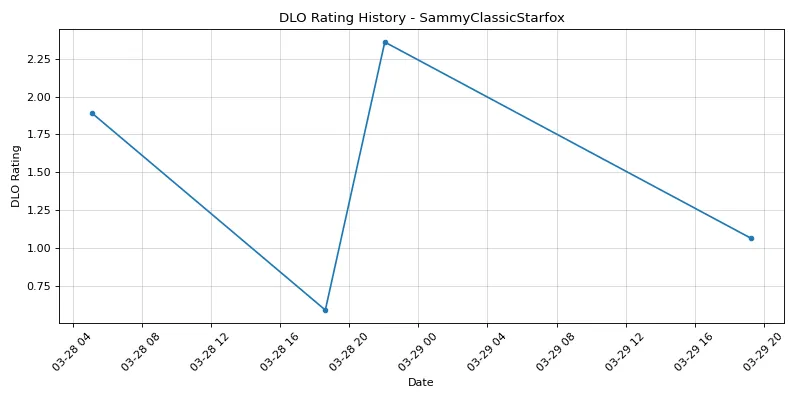
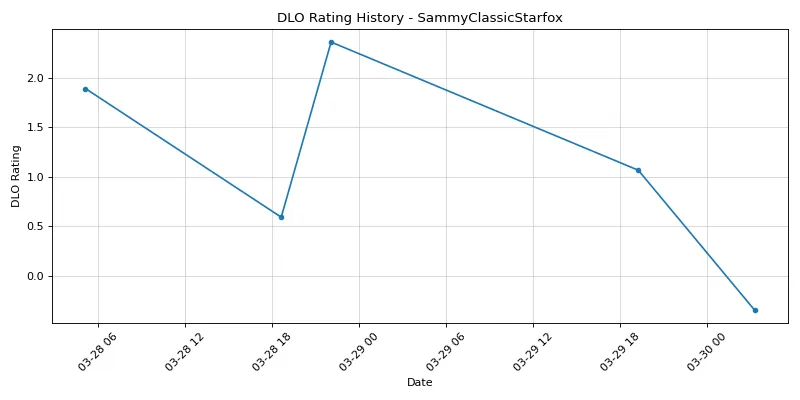
Auto-update: 2025-03-30 03:15:29

diff --git a/docs/index.html b/docs/index.html
@@ -53,7 +53,7 @@
             </tr>
         </thead>
         <tbody>
-            <tr><td>1</td><td><a href="player/76561198113365362.html">Rom</a></td><td>7.61</td><td>16</td></tr><tr><td>2</td><td><a href="player/76561198439522328.html">Scrubus</a></td><td>6.97</td><td>13</td></tr><tr><td>3</td><td><a href="player/76561199813547421.html">Stern</a></td><td>5.39</td><td>5</td></tr><tr><td>4</td><td><a href="player/76561199096225302.html">chereamie</a></td><td>5.31</td><td>5</td></tr><tr><td>5</td><td><a href="player/76561197991901288.html">Welsper</a></td><td>4.89</td><td>3</td></tr><tr><td>6</td><td><a href="player/76561198067145805.html">internetzspacezshipz</a></td><td>4.89</td><td>5</td></tr><tr><td>7</td><td><a href="player/76561199619179700.html">Austral</a></td><td>3.92</td><td>9</td></tr><tr><td>8</td><td><a href="player/76561198054330246.html">WzSnipes</a></td><td>3.82</td><td>8</td></tr><tr><td>9</td><td><a href="player/76561198324280078.html">flynn</a></td><td>3.56</td><td>10</td></tr><tr><td>10</td><td><a href="player/76561199109004727.html">Jacoda</a></td><td>3.56</td><td>2</td></tr><tr><td>11</td><td><a href="player/76561198188722486.html">Weeble Keneeble</a></td><td>3.41</td><td>2</td></tr><tr><td>12</td><td><a href="player/76561199074068434.html">Zabbix</a></td><td>3.16</td><td>2</td></tr><tr><td>13</td><td><a href="player/76561198153456000.html">Comedian</a></td><td>2.43</td><td>1</td></tr><tr><td>14</td><td><a href="player/76561199701048648.html">Fentanyl Ape</a></td><td>2.43</td><td>1</td></tr><tr><td>15</td><td><a href="player/76561198107440575.html">Gvazi</a></td><td>2.30</td><td>3</td></tr><tr><td>16</td><td><a href="player/76561198390895563.html">Black Bat A8T</a></td><td>2.22</td><td>6</td></tr><tr><td>17</td><td><a href="player/76561198895534238.html">Noek &#x27;Vessel&#x27; H.</a></td><td>2.06</td><td>3</td></tr><tr><td>18</td><td><a href="player/76561198405914826.html">Magic</a></td><td>2.04</td><td>3</td></tr><tr><td>19</td><td><a href="player/76561198988211104.html">dxb338</a></td><td>1.92</td><td>3</td></tr><tr><td>20</td><td><a href="player/76561198871018138.html">MXYFX-71400</a></td><td>1.89</td><td>1</td></tr><tr><td>21</td><td><a href="player/76561198018651039.html">Aurelia Lightpaw</a></td><td>1.85</td><td>1</td></tr><tr><td>22</td><td><a href="player/76561198012111956.html">KailasaHoles</a></td><td>1.85</td><td>1</td></tr><tr><td>23</td><td><a href="player/76561198062094692.html">Radosvik</a></td><td>1.85</td><td>1</td></tr><tr><td>24</td><td><a href="player/76561198092534377.html">Mav625</a></td><td>1.83</td><td>1</td></tr><tr><td>25</td><td><a href="player/76561198399462425.html">iriS-xe</a></td><td>1.82</td><td>9</td></tr><tr><td>26</td><td><a href="player/76561199209524660.html">bigterrorist</a></td><td>1.76</td><td>1</td></tr><tr><td>27</td><td><a href="player/76561198353755299.html">Daemoniaque</a></td><td>1.73</td><td>1</td></tr><tr><td>28</td><td><a href="player/76561198843598485.html">Cassie Chase</a></td><td>1.69</td><td>1</td></tr><tr><td>29</td><td><a href="player/76561199839182647.html">Soedem</a></td><td>1.69</td><td>1</td></tr><tr><td>30</td><td><a href="player/76561199439219048.html">workas</a></td><td>1.69</td><td>1</td></tr><tr><td>31</td><td><a href="player/76561199841083469.html">bennycarver</a></td><td>1.68</td><td>1</td></tr><tr><td>32</td><td><a href="player/76561198151744331.html">CosmicEradicator</a></td><td>1.68</td><td>1</td></tr><tr><td>33</td><td><a href="player/76561197965398272.html">JonBolds</a></td><td>1.68</td><td>1</td></tr><tr><td>34</td><td><a href="player/76561199479844941.html">Daggon</a></td><td>1.66</td><td>1</td></tr><tr><td>35</td><td><a href="player/76561198149681631.html">Quintobean</a></td><td>1.65</td><td>7</td></tr><tr><td>36</td><td><a href="player/76561198081378329.html">HELL CRINGE</a></td><td>1.64</td><td>6</td></tr><tr><td>37</td><td><a href="player/76561198203688599.html">HEAVEN BASED</a></td><td>1.63</td><td>1</td></tr><tr><td>38</td><td><a href="player/76561198118076747.html">Xenophon of Athens</a></td><td>1.63</td><td>1</td></tr><tr><td>39</td><td><a href="player/76561198072364306.html">BATTIE</a></td><td>1.62</td><td>1</td></tr><tr><td>40</td><td><a href="player/76561198799044855.html">Trojan_Shad0w</a></td><td>1.59</td><td>1</td></tr><tr><td>41</td><td><a href="player/76561199435784871.html">dashort1</a></td><td>1.58</td><td>1</td></tr><tr><td>42</td><td><a href="player/76561198061365582.html">LyricalKing</a></td><td>1.44</td><td>1</td></tr><tr><td>43</td><td><a href="player/76561198102689306.html">nova28</a></td><td>1.44</td><td>1</td></tr><tr><td>44</td><td><a href="player/76561198159764203.html">Cpt_Joe</a></td><td>1.42</td><td>1</td></tr><tr><td>45</td><td><a href="player/76561199238744504.html">Duke of Stars</a></td><td>1.39</td><td>6</td></tr><tr><td>46</td><td><a href="player/76561198947126591.html">SammyClassicStarfox</a></td><td>1.06</td><td>4</td></tr><tr><td>47</td><td><a href="player/76561198837013055.html">Jaspexx</a></td><td>0.96</td><td>4</td></tr><tr><td>48</td><td><a href="player/76561198250857768.html">Jakubian</a></td><td>0.95</td><td>1</td></tr><tr><td>49</td><td><a href="player/76561198430121736.html">teitokuwww</a></td><td>0.95</td><td>1</td></tr><tr><td>50</td><td><a href="player/76561198007984095.html">das</a></td><td>0.76</td><td>2</td></tr><tr><td>51</td><td><a href="player/76561198046325828.html">Kiroking</a></td><td>0.59</td><td>2</td></tr><tr><td>52</td><td><a href="player/76561199097135470.html">ocult</a></td><td>0.55</td><td>2</td></tr><tr><td>53</td><td><a href="player/76561198801434526.html">Jraamus</a></td><td>0.53</td><td>2</td></tr><tr><td>54</td><td><a href="player/76561198105386598.html">FreedomGR</a></td><td>0.51</td><td>2</td></tr><tr><td>55</td><td><a href="player/76561198100430451.html">Nick0</a></td><td>0.44</td><td>2</td></tr><tr><td>56</td><td><a href="player/76561197998511101.html">Hivegender</a></td><td>0.19</td><td>2</td></tr><tr><td>57</td><td><a href="player/76561198206866291.html">bonggyy</a></td><td>-0.20</td><td>7</td></tr><tr><td>58</td><td><a href="player/76561198052398418.html">_Puck_</a></td><td>-0.28</td><td>2</td></tr><tr><td>59</td><td><a href="player/76561198354645177.html">Solus</a></td><td>-0.31</td><td>3</td></tr><tr><td>60</td><td><a href="player/76561198089616341.html">hämis</a></td><td>-0.53</td><td>1</td></tr><tr><td>61</td><td><a href="player/76561198126182179.html">xxTHREExx</a></td><td>-0.53</td><td>1</td></tr><tr><td>62</td><td><a href="player/76561197997867197.html">Mann gegen Mann</a></td><td>-0.56</td><td>3</td></tr><tr><td>63</td><td><a href="player/76561198332158283.html">Lambooo</a></td><td>-0.92</td><td>1</td></tr><tr><td>64</td><td><a href="player/76561198140913834.html">SirPoopit</a></td><td>-0.94</td><td>1</td></tr><tr><td>65</td><td><a href="player/76561198010486795.html">QuizQuiz</a></td><td>-0.98</td><td>8</td></tr><tr><td>66</td><td><a href="player/76561197996747977.html">Captain Eban</a></td><td>-1.05</td><td>1</td></tr><tr><td>67</td><td><a href="player/76561198009272323.html">Explosive Megumin</a></td><td>-1.05</td><td>1</td></tr><tr><td>68</td><td><a href="player/76561198066312157.html">PieOfReckoning</a></td><td>-1.06</td><td>1</td></tr><tr><td>69</td><td><a href="player/76561198049445057.html">Skipper</a></td><td>-1.07</td><td>1</td></tr><tr><td>70</td><td><a href="player/76561198209008457.html">StabilWieNichts</a></td><td>-1.07</td><td>1</td></tr><tr><td>71</td><td><a href="player/76561198006884445.html">TheCheeseBandit</a></td><td>-1.07</td><td>1</td></tr><tr><td>72</td><td><a href="player/76561198950963392.html">_bell</a></td><td>-1.13</td><td>14</td></tr><tr><td>73</td><td><a href="player/76561198019779444.html">Gambit</a></td><td>-1.18</td><td>1</td></tr><tr><td>74</td><td><a href="player/76561198208086923.html">apathy</a></td><td>-1.19</td><td>1</td></tr><tr><td>75</td><td><a href="player/76561197993020664.html">MrChops</a></td><td>-1.20</td><td>1</td></tr><tr><td>76</td><td><a href="player/76561197986126034.html">bowana</a></td><td>-1.21</td><td>1</td></tr><tr><td>77</td><td><a href="player/76561197984709358.html">CosmicEradicator</a></td><td>-1.21</td><td>1</td></tr><tr><td>78</td><td><a href="player/76561198074285909.html">Cosmos</a></td><td>-1.21</td><td>1</td></tr><tr><td>79</td><td><a href="player/76561197960539146.html">Dimori</a></td><td>-1.21</td><td>1</td></tr><tr><td>80</td><td><a href="player/76561198361715088.html">Cosmic Coom</a></td><td>-1.25</td><td>1</td></tr><tr><td>81</td><td><a href="player/76561198193749733.html">noobmaster69</a></td><td>-1.34</td><td>1</td></tr><tr><td>82</td><td><a href="player/76561198063315803.html">Occams Hammer</a></td><td>-1.34</td><td>1</td></tr><tr><td>83</td><td><a href="player/76561198152855754.html">Orgiastic Erection</a></td><td>-1.34</td><td>1</td></tr><tr><td>84</td><td><a href="player/76561198981973612.html">Iona Cerana</a></td><td>-1.39</td><td>1</td></tr><tr><td>85</td><td><a href="player/76561199122719914.html">Lost_Leviathan</a></td><td>-1.41</td><td>1</td></tr><tr><td>86</td><td><a href="player/76561198203580469.html">TheEngineeringTactician</a></td><td>-1.41</td><td>1</td></tr><tr><td>87</td><td><a href="player/76561197984015263.html">Kung Leonard den Barbariske</a></td><td>-1.50</td><td>1</td></tr><tr><td>88</td><td><a href="player/76561198041325974.html">Pinselmann</a></td><td>-1.50</td><td>1</td></tr><tr><td>89</td><td><a href="player/76561198130378644.html">puppy</a></td><td>-2.12</td><td>4</td></tr><tr><td>90</td><td><a href="player/76561198064533187.html">Adleid</a></td><td>-2.19</td><td>4</td></tr><tr><td>91</td><td><a href="player/76561198822264018.html">PBstar27</a></td><td>-2.50</td><td>2</td></tr><tr><td>92</td><td><a href="player/76561198097117564.html">Doggy Girl KikimoraθΔ</a></td><td>-2.63</td><td>2</td></tr><tr><td>93</td><td><a href="player/76561198864423220.html">HIMARS</a></td><td>-2.67</td><td>5</td></tr><tr><td>94</td><td><a href="player/76561198119011747.html">DerangedOctopus</a></td><td>-3.45</td><td>3</td></tr><tr><td>95</td><td><a href="player/76561198805239685.html">Theta03</a></td><td>-3.86</td><td>3</td></tr><tr><td>96</td><td><a href="player/76561197970497291.html">Henka</a></td><td>-4.14</td><td>1</td></tr><tr><td>97</td><td><a href="player/76561198042187721.html">Lemon</a></td><td>-4.88</td><td>4</td></tr>
+            <tr><td>1</td><td><a href="player/76561198113365362.html">Rom</a></td><td>7.61</td><td>16</td></tr><tr><td>2</td><td><a href="player/76561198439522328.html">Scrubus</a></td><td>6.97</td><td>13</td></tr><tr><td>3</td><td><a href="player/76561199813547421.html">Stern</a></td><td>5.39</td><td>5</td></tr><tr><td>4</td><td><a href="player/76561199096225302.html">chereamie</a></td><td>5.31</td><td>5</td></tr><tr><td>5</td><td><a href="player/76561197991901288.html">Welsper</a></td><td>4.89</td><td>3</td></tr><tr><td>6</td><td><a href="player/76561198067145805.html">internetzspacezshipz</a></td><td>4.89</td><td>5</td></tr><tr><td>7</td><td><a href="player/76561199619179700.html">Austral</a></td><td>3.92</td><td>9</td></tr><tr><td>8</td><td><a href="player/76561198054330246.html">WzSnipes</a></td><td>3.82</td><td>8</td></tr><tr><td>9</td><td><a href="player/76561198324280078.html">flynn</a></td><td>3.56</td><td>10</td></tr><tr><td>10</td><td><a href="player/76561199109004727.html">Jacoda</a></td><td>3.56</td><td>2</td></tr><tr><td>11</td><td><a href="player/76561198188722486.html">Weeble Keneeble</a></td><td>3.41</td><td>2</td></tr><tr><td>12</td><td><a href="player/76561199074068434.html">Zabbix</a></td><td>3.16</td><td>2</td></tr><tr><td>13</td><td><a href="player/76561198158974445.html">Falke-Tethys Dive Bars</a></td><td>2.46</td><td>1</td></tr><tr><td>14</td><td><a href="player/76561198283970048.html">SecretMink</a></td><td>2.46</td><td>1</td></tr><tr><td>15</td><td><a href="player/76561198153456000.html">Comedian</a></td><td>2.43</td><td>1</td></tr><tr><td>16</td><td><a href="player/76561199701048648.html">Fentanyl Ape</a></td><td>2.43</td><td>1</td></tr><tr><td>17</td><td><a href="player/76561198107440575.html">Gvazi</a></td><td>2.30</td><td>3</td></tr><tr><td>18</td><td><a href="player/76561198390895563.html">Black Bat A8T</a></td><td>2.22</td><td>6</td></tr><tr><td>19</td><td><a href="player/76561198895534238.html">Noek &#x27;Vessel&#x27; H.</a></td><td>2.06</td><td>3</td></tr><tr><td>20</td><td><a href="player/76561198405914826.html">Magic</a></td><td>2.04</td><td>3</td></tr><tr><td>21</td><td><a href="player/76561198988211104.html">dxb338</a></td><td>1.92</td><td>3</td></tr><tr><td>22</td><td><a href="player/76561198871018138.html">MXYFX-71400</a></td><td>1.89</td><td>1</td></tr><tr><td>23</td><td><a href="player/76561198018651039.html">Aurelia Lightpaw</a></td><td>1.85</td><td>1</td></tr><tr><td>24</td><td><a href="player/76561198012111956.html">KailasaHoles</a></td><td>1.85</td><td>1</td></tr><tr><td>25</td><td><a href="player/76561198062094692.html">Radosvik</a></td><td>1.85</td><td>1</td></tr><tr><td>26</td><td><a href="player/76561198092534377.html">Mav625</a></td><td>1.83</td><td>1</td></tr><tr><td>27</td><td><a href="player/76561198399462425.html">iriS-xe</a></td><td>1.82</td><td>9</td></tr><tr><td>28</td><td><a href="player/76561199209524660.html">bigterrorist</a></td><td>1.76</td><td>1</td></tr><tr><td>29</td><td><a href="player/76561198353755299.html">Daemoniaque</a></td><td>1.73</td><td>1</td></tr><tr><td>30</td><td><a href="player/76561198843598485.html">Cassie Chase</a></td><td>1.69</td><td>1</td></tr><tr><td>31</td><td><a href="player/76561199839182647.html">Soedem</a></td><td>1.69</td><td>1</td></tr><tr><td>32</td><td><a href="player/76561199439219048.html">workas</a></td><td>1.69</td><td>1</td></tr><tr><td>33</td><td><a href="player/76561199841083469.html">bennycarver</a></td><td>1.68</td><td>1</td></tr><tr><td>34</td><td><a href="player/76561198151744331.html">CosmicEradicator</a></td><td>1.68</td><td>1</td></tr><tr><td>35</td><td><a href="player/76561197965398272.html">JonBolds</a></td><td>1.68</td><td>1</td></tr><tr><td>36</td><td><a href="player/76561199479844941.html">Daggon</a></td><td>1.66</td><td>1</td></tr><tr><td>37</td><td><a href="player/76561198149681631.html">Quintobean</a></td><td>1.65</td><td>7</td></tr><tr><td>38</td><td><a href="player/76561198081378329.html">HELL CRINGE</a></td><td>1.64</td><td>6</td></tr><tr><td>39</td><td><a href="player/76561198203688599.html">HEAVEN BASED</a></td><td>1.63</td><td>1</td></tr><tr><td>40</td><td><a href="player/76561198118076747.html">Xenophon of Athens</a></td><td>1.63</td><td>1</td></tr><tr><td>41</td><td><a href="player/76561198072364306.html">BATTIE</a></td><td>1.62</td><td>1</td></tr><tr><td>42</td><td><a href="player/76561198799044855.html">Trojan_Shad0w</a></td><td>1.59</td><td>1</td></tr><tr><td>43</td><td><a href="player/76561199435784871.html">dashort1</a></td><td>1.58</td><td>1</td></tr><tr><td>44</td><td><a href="player/76561198061365582.html">LyricalKing</a></td><td>1.44</td><td>1</td></tr><tr><td>45</td><td><a href="player/76561198102689306.html">nova28</a></td><td>1.44</td><td>1</td></tr><tr><td>46</td><td><a href="player/76561198159764203.html">Cpt_Joe</a></td><td>1.42</td><td>1</td></tr><tr><td>47</td><td><a href="player/76561199238744504.html">Duke of Stars</a></td><td>1.39</td><td>6</td></tr><tr><td>48</td><td><a href="player/76561198837013055.html">Jaspexx</a></td><td>0.96</td><td>4</td></tr><tr><td>49</td><td><a href="player/76561198250857768.html">Jakubian</a></td><td>0.95</td><td>1</td></tr><tr><td>50</td><td><a href="player/76561198430121736.html">teitokuwww</a></td><td>0.95</td><td>1</td></tr><tr><td>51</td><td><a href="player/76561198007984095.html">das</a></td><td>0.76</td><td>2</td></tr><tr><td>52</td><td><a href="player/76561198046325828.html">Kiroking</a></td><td>0.59</td><td>2</td></tr><tr><td>53</td><td><a href="player/76561199097135470.html">ocult</a></td><td>0.55</td><td>2</td></tr><tr><td>54</td><td><a href="player/76561198801434526.html">Jraamus</a></td><td>0.53</td><td>2</td></tr><tr><td>55</td><td><a href="player/76561198105386598.html">FreedomGR</a></td><td>0.51</td><td>2</td></tr><tr><td>56</td><td><a href="player/76561198100430451.html">Nick0</a></td><td>0.44</td><td>2</td></tr><tr><td>57</td><td><a href="player/76561197998511101.html">Hivegender</a></td><td>0.19</td><td>2</td></tr><tr><td>58</td><td><a href="player/76561198206866291.html">bonggyy</a></td><td>-0.20</td><td>7</td></tr><tr><td>59</td><td><a href="player/76561198052398418.html">_Puck_</a></td><td>-0.28</td><td>2</td></tr><tr><td>60</td><td><a href="player/76561198354645177.html">Solus</a></td><td>-0.31</td><td>3</td></tr><tr><td>61</td><td><a href="player/76561198947126591.html">SammyClassicStarfox</a></td><td>-0.35</td><td>5</td></tr><tr><td>62</td><td><a href="player/76561198089616341.html">hämis</a></td><td>-0.53</td><td>1</td></tr><tr><td>63</td><td><a href="player/76561198126182179.html">xxTHREExx</a></td><td>-0.53</td><td>1</td></tr><tr><td>64</td><td><a href="player/76561197997867197.html">Mann gegen Mann</a></td><td>-0.56</td><td>3</td></tr><tr><td>65</td><td><a href="player/76561198332158283.html">Lambooo</a></td><td>-0.92</td><td>1</td></tr><tr><td>66</td><td><a href="player/76561198140913834.html">SirPoopit</a></td><td>-0.94</td><td>1</td></tr><tr><td>67</td><td><a href="player/76561198010486795.html">QuizQuiz</a></td><td>-0.98</td><td>8</td></tr><tr><td>68</td><td><a href="player/76561197996747977.html">Captain Eban</a></td><td>-1.05</td><td>1</td></tr><tr><td>69</td><td><a href="player/76561198009272323.html">Explosive Megumin</a></td><td>-1.05</td><td>1</td></tr><tr><td>70</td><td><a href="player/76561198066312157.html">PieOfReckoning</a></td><td>-1.06</td><td>1</td></tr><tr><td>71</td><td><a href="player/76561198049445057.html">Skipper</a></td><td>-1.07</td><td>1</td></tr><tr><td>72</td><td><a href="player/76561198209008457.html">StabilWieNichts</a></td><td>-1.07</td><td>1</td></tr><tr><td>73</td><td><a href="player/76561198006884445.html">TheCheeseBandit</a></td><td>-1.07</td><td>1</td></tr><tr><td>74</td><td><a href="player/76561198950963392.html">_bell</a></td><td>-1.13</td><td>14</td></tr><tr><td>75</td><td><a href="player/76561198019779444.html">Gambit</a></td><td>-1.18</td><td>1</td></tr><tr><td>76</td><td><a href="player/76561198208086923.html">apathy</a></td><td>-1.19</td><td>1</td></tr><tr><td>77</td><td><a href="player/76561197993020664.html">MrChops</a></td><td>-1.20</td><td>1</td></tr><tr><td>78</td><td><a href="player/76561197986126034.html">bowana</a></td><td>-1.21</td><td>1</td></tr><tr><td>79</td><td><a href="player/76561197984709358.html">CosmicEradicator</a></td><td>-1.21</td><td>1</td></tr><tr><td>80</td><td><a href="player/76561198074285909.html">Cosmos</a></td><td>-1.21</td><td>1</td></tr><tr><td>81</td><td><a href="player/76561197960539146.html">Dimori</a></td><td>-1.21</td><td>1</td></tr><tr><td>82</td><td><a href="player/76561198361715088.html">Cosmic Coom</a></td><td>-1.25</td><td>1</td></tr><tr><td>83</td><td><a href="player/76561198193749733.html">noobmaster69</a></td><td>-1.34</td><td>1</td></tr><tr><td>84</td><td><a href="player/76561198063315803.html">Occams Hammer</a></td><td>-1.34</td><td>1</td></tr><tr><td>85</td><td><a href="player/76561198152855754.html">Orgiastic Erection</a></td><td>-1.34</td><td>1</td></tr><tr><td>86</td><td><a href="player/76561198981973612.html">Iona Cerana</a></td><td>-1.39</td><td>1</td></tr><tr><td>87</td><td><a href="player/76561199122719914.html">Lost_Leviathan</a></td><td>-1.41</td><td>1</td></tr><tr><td>88</td><td><a href="player/76561198203580469.html">TheEngineeringTactician</a></td><td>-1.41</td><td>1</td></tr><tr><td>89</td><td><a href="player/76561197984015263.html">Kung Leonard den Barbariske</a></td><td>-1.50</td><td>1</td></tr><tr><td>90</td><td><a href="player/76561198041325974.html">Pinselmann</a></td><td>-1.50</td><td>1</td></tr><tr><td>91</td><td><a href="player/76561198138856986.html">personzz</a></td><td>-1.52</td><td>1</td></tr><tr><td>92</td><td><a href="player/76561198130378644.html">puppy</a></td><td>-2.12</td><td>4</td></tr><tr><td>93</td><td><a href="player/76561198064533187.html">Adleid</a></td><td>-2.19</td><td>4</td></tr><tr><td>94</td><td><a href="player/76561198822264018.html">PBstar27</a></td><td>-2.50</td><td>2</td></tr><tr><td>95</td><td><a href="player/76561198097117564.html">Doggy Girl KikimoraθΔ</a></td><td>-2.63</td><td>2</td></tr><tr><td>96</td><td><a href="player/76561198864423220.html">HIMARS</a></td><td>-2.67</td><td>5</td></tr><tr><td>97</td><td><a href="player/76561198119011747.html">DerangedOctopus</a></td><td>-3.45</td><td>3</td></tr><tr><td>98</td><td><a href="player/76561198805239685.html">Theta03</a></td><td>-3.86</td><td>3</td></tr><tr><td>99</td><td><a href="player/76561197970497291.html">Henka</a></td><td>-4.14</td><td>1</td></tr><tr><td>100</td><td><a href="player/76561198042187721.html">Lemon</a></td><td>-4.88</td><td>4</td></tr>
         </tbody>
     </table>
 </body>

diff --git a/docs/player/76561198158974445.html b/docs/player/76561198158974445.html
@@ -4,7 +4,7 @@
 <head>
     <meta charset="UTF-8">
     <meta name="viewport" content="width=device-width, initial-scale=1.0">
-    <title>SammyClassicStarfox - Player Stats</title>
+    <title>Falke-Tethys Dive Bars - Player Stats</title>
     <style>
         body { 
             font-family: monospace;
@@ -41,7 +41,7 @@
 <body>
     <div class="header">
         <img src="../dlo.webp" alt="Logo" width="150">
-        <h1>SammyClassicStarfox - Player Statistics</h1>
+        <h1>Falke-Tethys Dive Bars - Player Statistics</h1>
         <a href="https://openskill.me/en/stable/manual.html">ranking system info</a> 
         | <a href="../index.html">Back to Leaderboard</a>
     </div>
@@ -49,27 +49,27 @@
     <table class="stats-table">
         <tr>
             <th>Steam Name</th>
-            <td>SammyClassicStarfox</td>
+            <td>Falke-Tethys Dive Bars</td>
         </tr>
         <tr>
             <th>Player ID</th>
-            <td>76561198947126591</td>
+            <td>76561198158974445</td>
         </tr>
         <tr>
             <th>Wins/Losses</th>
-            <td>2 / 3 (40.0%)</td>
+            <td>1 / 0 (100.0%)</td>
         </tr>
         <tr>
             <th>Current DLO</th>
-            <td>-0.35</td>
+            <td>2.46</td>
         </tr>
         <tr>
             <th>Mu (μ)</th>
-            <td>23.23</td>
+            <td>26.98</td>
         </tr>
         <tr>
             <th>Sigma (σ)</th>
-            <td>7.86</td>
+            <td>8.17</td>
         </tr>
     </table>
 
@@ -84,12 +84,12 @@
             </tr>
         </thead>
         <tbody>
-            <tr><td>1</td><td><a href="76561198871018138.html">MXYFX-71400</a></td><td>100.0%</td><td>1/1</td></tr><tr><td>2</td><td><a href="76561199097135470.html">ocult</a></td><td>100.0%</td><td>1/1</td></tr><tr><td>3</td><td><a href="76561198188722486.html">Weeble Keneeble</a></td><td>100.0%</td><td>1/1</td></tr>
+            <tr><td>1</td><td><a href="76561198283970048.html">SecretMink</a></td><td>100.0%</td><td>1/1</td></tr>
         </tbody>
     </table>
 
     <h2>DLO History</h2>
-    <img src="images/76561198947126591_history.webp" alt="DLO history graph">
+    <img src="images/76561198158974445_history.webp" alt="DLO history graph">
 </body>
 </html>
     

diff --git a/docs/player/76561198283970048.html b/docs/player/76561198283970048.html
@@ -4,7 +4,7 @@
 <head>
     <meta charset="UTF-8">
     <meta name="viewport" content="width=device-width, initial-scale=1.0">
-    <title>SammyClassicStarfox - Player Stats</title>
+    <title>SecretMink - Player Stats</title>
     <style>
         body { 
             font-family: monospace;
@@ -41,7 +41,7 @@
 <body>
     <div class="header">
         <img src="../dlo.webp" alt="Logo" width="150">
-        <h1>SammyClassicStarfox - Player Statistics</h1>
+        <h1>SecretMink - Player Statistics</h1>
         <a href="https://openskill.me/en/stable/manual.html">ranking system info</a> 
         | <a href="../index.html">Back to Leaderboard</a>
     </div>
@@ -49,27 +49,27 @@
     <table class="stats-table">
         <tr>
             <th>Steam Name</th>
-            <td>SammyClassicStarfox</td>
+            <td>SecretMink</td>
         </tr>
         <tr>
             <th>Player ID</th>
-            <td>76561198947126591</td>
+            <td>76561198283970048</td>
         </tr>
         <tr>
             <th>Wins/Losses</th>
-            <td>2 / 3 (40.0%)</td>
+            <td>1 / 0 (100.0%)</td>
         </tr>
         <tr>
             <th>Current DLO</th>
-            <td>-0.35</td>
+            <td>2.46</td>
         </tr>
         <tr>
             <th>Mu (μ)</th>
-            <td>23.23</td>
+            <td>26.98</td>
         </tr>
         <tr>
             <th>Sigma (σ)</th>
-            <td>7.86</td>
+            <td>8.17</td>
         </tr>
     </table>
 
@@ -84,12 +84,12 @@
             </tr>
         </thead>
         <tbody>
-            <tr><td>1</td><td><a href="76561198871018138.html">MXYFX-71400</a></td><td>100.0%</td><td>1/1</td></tr><tr><td>2</td><td><a href="76561199097135470.html">ocult</a></td><td>100.0%</td><td>1/1</td></tr><tr><td>3</td><td><a href="76561198188722486.html">Weeble Keneeble</a></td><td>100.0%</td><td>1/1</td></tr>
+            <tr><td>1</td><td><a href="76561198158974445.html">Falke-Tethys Dive Bars</a></td><td>100.0%</td><td>1/1</td></tr>
         </tbody>
     </table>
 
     <h2>DLO History</h2>
-    <img src="images/76561198947126591_history.webp" alt="DLO history graph">
+    <img src="images/76561198283970048_history.webp" alt="DLO history graph">
 </body>
 </html>
     

diff --git a/docs/player/76561198138856986.html b/docs/player/76561198138856986.html
@@ -4,7 +4,7 @@
 <head>
     <meta charset="UTF-8">
     <meta name="viewport" content="width=device-width, initial-scale=1.0">
-    <title>SammyClassicStarfox - Player Stats</title>
+    <title>personzz - Player Stats</title>
     <style>
         body { 
             font-family: monospace;
@@ -41,7 +41,7 @@
 <body>
     <div class="header">
         <img src="../dlo.webp" alt="Logo" width="150">
-        <h1>SammyClassicStarfox - Player Statistics</h1>
+        <h1>personzz - Player Statistics</h1>
         <a href="https://openskill.me/en/stable/manual.html">ranking system info</a> 
         | <a href="../index.html">Back to Leaderboard</a>
     </div>
@@ -49,27 +49,27 @@
     <table class="stats-table">
         <tr>
             <th>Steam Name</th>
-            <td>SammyClassicStarfox</td>
+            <td>personzz</td>
         </tr>
         <tr>
             <th>Player ID</th>
-            <td>76561198947126591</td>
+            <td>76561198138856986</td>
         </tr>
         <tr>
             <th>Wins/Losses</th>
-            <td>2 / 3 (40.0%)</td>
+            <td>0 / 1 (0.0%)</td>
         </tr>
         <tr>
             <th>Current DLO</th>
-            <td>-0.35</td>
+            <td>-1.52</td>
         </tr>
         <tr>
             <th>Mu (μ)</th>
-            <td>23.23</td>
+            <td>23.02</td>
         </tr>
         <tr>
             <th>Sigma (σ)</th>
-            <td>7.86</td>
+            <td>8.18</td>
         </tr>
     </table>
 
@@ -84,12 +84,12 @@
             </tr>
         </thead>
         <tbody>
-            <tr><td>1</td><td><a href="76561198871018138.html">MXYFX-71400</a></td><td>100.0%</td><td>1/1</td></tr><tr><td>2</td><td><a href="76561199097135470.html">ocult</a></td><td>100.0%</td><td>1/1</td></tr><tr><td>3</td><td><a href="76561198188722486.html">Weeble Keneeble</a></td><td>100.0%</td><td>1/1</td></tr>
+            
         </tbody>
     </table>
 
     <h2>DLO History</h2>
-    <img src="images/76561198947126591_history.webp" alt="DLO history graph">
+    <img src="images/76561198138856986_history.webp" alt="DLO history graph">
 </body>
 </html>
     
